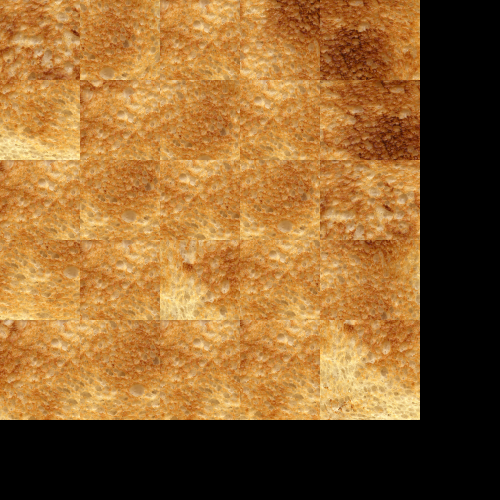
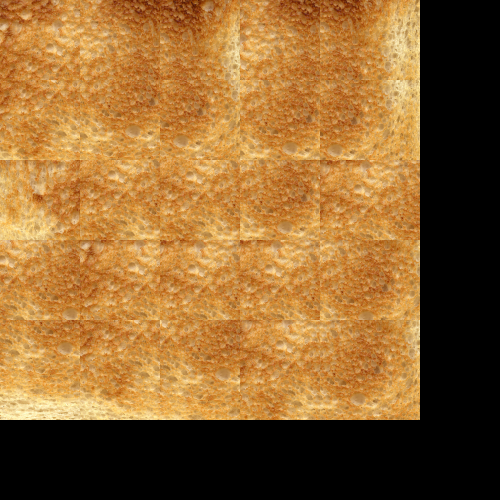
simple quilting works

diff --git a/src/quilting_main.cpp b/src/quilting_main.cpp
@@ -11,6 +11,7 @@ void testRandomQuilting()
     FloatImage planks_sample(DATA_DIR "/input/planks.png");
     FloatImage apples_sample(DATA_DIR "/input/apples.png");
     FloatImage toast_sample(DATA_DIR "/input/toast.png");
+    FloatImage green_sample(DATA_DIR "/input/green.png");
     
     int outsize = 500;
     int patchsize = 100;
@@ -20,12 +21,14 @@ void testRandomQuilting()
     FloatImage planks_random = quilt_random(planks_sample, outsize, patchsize);
     FloatImage apples_random = quilt_random(apples_sample, outsize, patchsize);
     FloatImage toast_random = quilt_random(toast_sample, outsize, patchsize);
+    FloatImage green_random = quilt_random(green_sample, 300, 50);
 
     stones_random.write(DATA_DIR "/output/stones_random_synthesis.png");
     mat_random.write(DATA_DIR "/output/mat_random_synthesis.png");
     planks_random.write(DATA_DIR "/output/planks_random_synthesis.png");
     apples_random.write(DATA_DIR "/output/apples_random_synthesis.png");
     toast_random.write(DATA_DIR "/output/toast_random_synthesis.png");
+    green_random.write(DATA_DIR "/output/green_random_synthesis.png");
 }
 
 // //test planksure synthesis with simple quilting (overlapping method)
@@ -36,6 +39,7 @@ void testSimpleQuilting()
     FloatImage planks_sample(DATA_DIR "/input/planks.png");
     FloatImage apples_sample(DATA_DIR "/input/apples.png");
     FloatImage toast_sample(DATA_DIR "/input/toast.png");
+    FloatImage green_sample(DATA_DIR "/input/green.png");
 
     // int outsize=500;
     // int patchsize=100;
@@ -48,12 +52,14 @@ void testSimpleQuilting()
     FloatImage planks_simple = quilt_simple(planks_sample, 500, 100, 5, 0.0001);
     FloatImage apples_simple = quilt_simple(apples_sample, 500, 75, 5, 0.001);
     FloatImage toast_simple = quilt_simple(toast_sample, 500, 100, 20, 0.01);
+    //FloatImage green_simple = quilt_simple(green_sample, 300, 50, 10, 0.00001);
 
     //stones_simple.write(DATA_DIR "/output/stones_simple.png");
     //mat_simple.write(DATA_DIR "/output/mat_simple.png");
     planks_simple.write(DATA_DIR "/output/planks_simple.png");
     apples_simple.write(DATA_DIR "/output/apples_simple.png");
     toast_simple.write(DATA_DIR "/output/toast_simple.png");
+    //green_simple.write(DATA_DIR "/output/green_simple.png");
 }
 
 int main()

diff --git a/src/quilting.cpp b/src/quilting.cpp
@@ -121,7 +121,7 @@ FloatImage quilt_simple(const FloatImage &sample, int out_size, int patch_size, 
                         for (int y1=0; y1<patch_size; y1++){
                             // for each channel
                             for (int c=0; c<sample.channels(); c++){
-                                patch_SSD += pow( sample(patch_x+x1, patch_y+y1, c) - output(out_x-overlap+x1, out_y, c), 2);
+                                patch_SSD += pow( sample(patch_x+x1, patch_y+y1, c) - output(out_x-overlap+x1, out_y+y1, c), 2);
                             }
                         }
                     }
@@ -135,7 +135,7 @@ FloatImage quilt_simple(const FloatImage &sample, int out_size, int patch_size, 
                         for (int y1=0; y1<overlap; y1++){
                             // for each channel
                             for (int c=0; c<sample.channels(); c++){
-                                patch_SSD += pow( sample(patch_x+x1, patch_y+y1, c) - output(out_x, out_y-overlap+y1, c), 2);
+                                patch_SSD += pow( sample(patch_x+x1, patch_y+y1, c) - output(out_x+x1, out_y-overlap+y1, c), 2);
                             }
                         }
                     }
